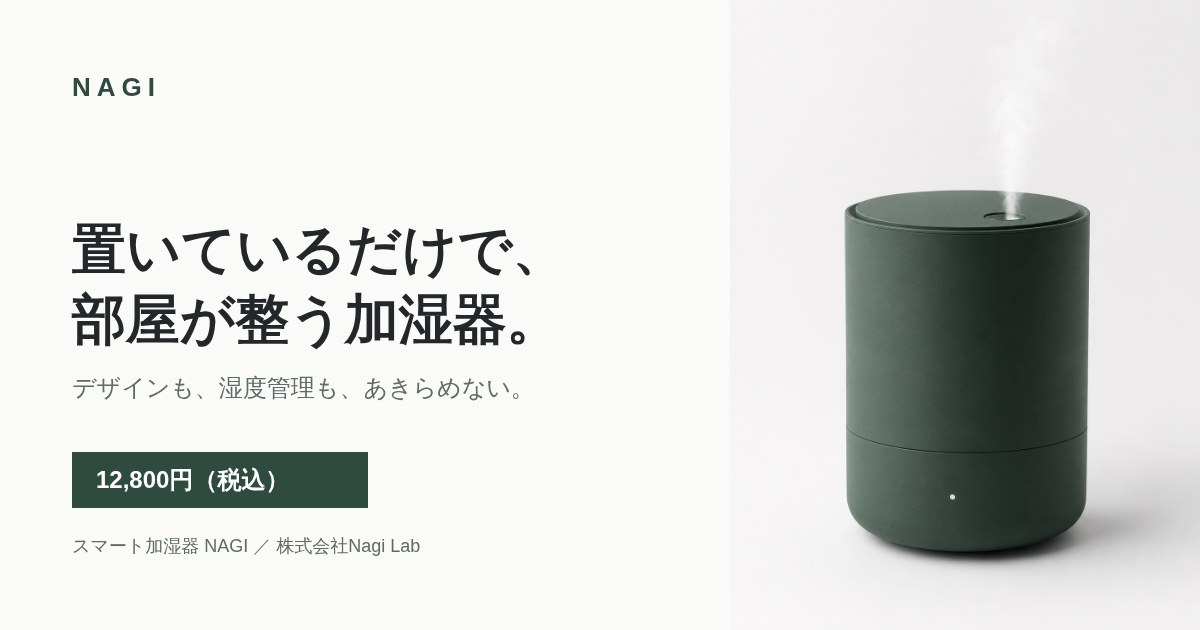
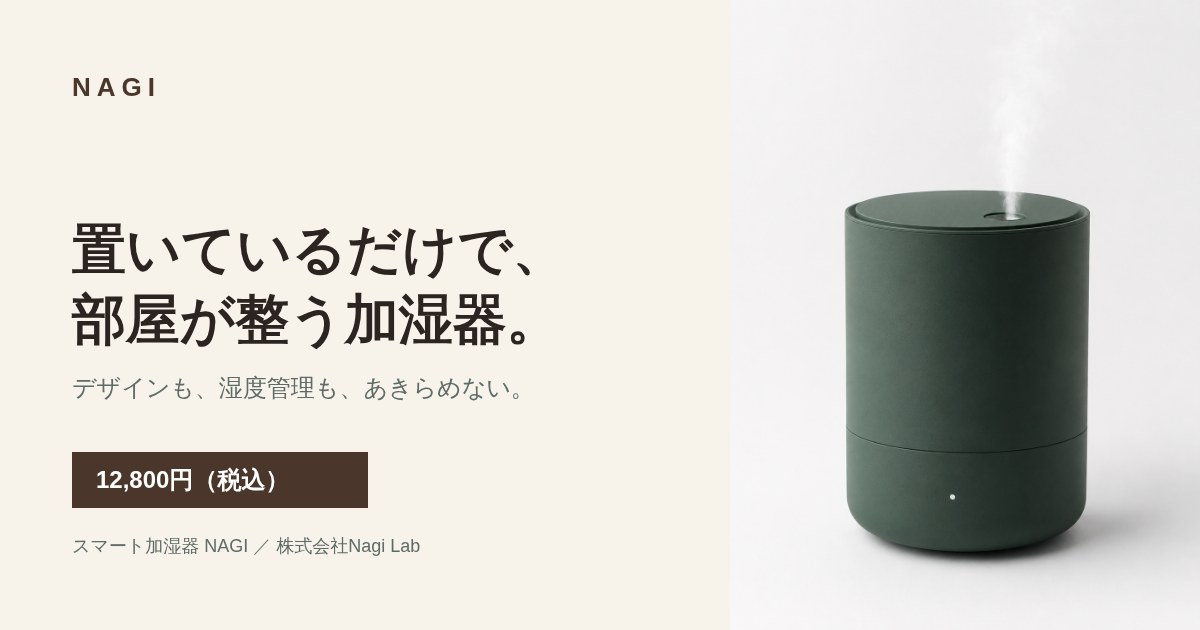
デザインシステム改訂版を反映し配色をウォールナットブラウン基調へ変更
クライアント要望（温かみ・木のイメージ）を受けた04_design-systemの
改訂版をdocsへ反映し、src/index.htmlのCSSトークンを差し替えた。
レイアウト・余白・フォントサイズは改訂版の指定どおり変更なし。

- ベース #FAFAF8 → #F7F2EA ウォームホワイト
- キー   #2F4A3E → #4A362A ウォールナットブラウン（白文字 11.34:1）
- サブ   #C9BBA0 → #B69B6E 真鍮ベージュ（罫線・装飾専用）
- 本文   #23272A → #2B2420 ウォームブラック（13.70:1）
- 派生色（ホバー・フッター地・罫線）を新キー色から再算出
- theme-color、favicon、OGP画像も新配色で再生成

真鍮ベージュは本文で2.38:1と基準未達のため、04の指定どおり
罫線・装飾に限定。悩みセクションの番号は補助グレーへ変更した。

全幅でコントラスト基準未達ゼロ、横スクロールなし、原稿61/62一致を確認。
写真素材は旧トーンのままのため、新画像の到着後に差し替えが必要。

Changed region(s): [[0.0617, 0.6937, 0.3083, 0.8143]]

diff --git a/nagi-lp/src/index.html b/nagi-lp/src/index.html
@@ -8,7 +8,7 @@
 <meta name="description" content="インテリアに馴染むミニマルなデザインと、スマホで完結する湿度管理を両立したスマート加湿器NAGI。20dB以下の静音設計。12,800円（税込）・30日間返品保証。">
 <link rel="canonical" href="https://nagilab.co.jp/pages/nagi">
 <meta name="robots" content="index,follow">
-<meta name="theme-color" content="#2F4A3E">
+<meta name="theme-color" content="#4A362A">
 
 <!-- OGP -->
 <meta property="og:type" content="product">
@@ -40,21 +40,24 @@
 *, *::before, *::after { box-sizing: border-box; margin: 0; padding: 0; }
 
 :root {
-  /* ---- カラー（04_design-system §1） ---- */
-  --c-base:    #FAFAF8;  /* オフホワイト  ベース 約60% */
-  /* ミストグレー。ベージュ地では 4.20:1 と本文基準に届かないため、
-     テキストには使わず罫線・図解などの非テキスト要素に限定する */
+  /* ---- カラー（04_design-system §1／2026年8月2日改訂）----
+     グレー×ディープグリーンから、ウォールナットブラウン×真鍮ベージュへ変更。
+     括弧内は実測コントラスト比 */
+  --c-base:    #F7F2EA;  /* ウォームホワイト ベース 約60% */
+  /* ミストグレー。テキストには使わず罫線・図解などの非テキスト要素に限定 */
   --c-main:    #6B7280;
-  --c-key:     #2F4A3E;  /* ディープグリーン キー 約10% */
-  --c-sub:     #C9BBA0;  /* サンドベージュ  サブ 約10% */
-  --c-text:    #23272A;  /* ダークグレー   本文・見出し */
-  --c-muted:   #5F6B66;  /* 補助テキスト（04改訂済み。ベージュ地 4.76:1） */
+  --c-key:     #4A362A;  /* ウォールナットブラウン キー 約12%（白文字 11.34:1） */
+  /* 真鍮ベージュ。ウォームホワイト地で 2.38:1 のため
+     04 §1 の指定どおり本文には使わず、罫線・装飾専用とする */
+  --c-sub:     #B69B6E;
+  --c-text:    #2B2420;  /* ウォームブラック 本文・見出し（13.70:1） */
+  --c-muted:   #5F6B66;  /* 補助テキスト（ベージュ地 4.76:1） */
 
   /* 派生色。新規の色相は増やさない */
-  --c-beige-bg: #F2EDE3; /* サンドベージュをベースへ寄せた地 */
-  --c-key-hi:   #3A5C4D; /* キーの明度+10%（ホバー） */
-  --c-line:     #E2E1DC; /* ベースに対するヘアライン */
-  --c-key-deep: #24382E; /* キーより暗い面。フッター用 */
+  --c-beige-bg: #F2EDE3; /* 強み地。セクション背景の切り替えのみ */
+  --c-key-hi:   #5C4A3F; /* キーの明度+10%（ホバー。白文字 8.38:1） */
+  --c-line:     #E1DAD1; /* ベースに対するヘアライン */
+  --c-key-deep: #35271E; /* キーより暗い面。フッター用（白文字 14.38:1） */
 
   /* ---- 余白スケール（04 §3。この9値以外は使わない） ---- */
   --sp-4: 4px; --sp-8: 8px; --sp-12: 12px; --sp-16: 16px;
@@ -198,7 +201,9 @@ img { max-width: 100%; height: auto; display: block; }
   display: flex; align-items: flex-start; gap: var(--sp-24);
   padding-block: var(--sp-24); border-bottom: 1px solid var(--c-line);
 }
-.pain__n { font-size: 13px; font-weight: 700; color: var(--c-sub); font-variant-numeric: tabular-nums; padding-top: var(--sp-4); }
+/* 番号は文字なので真鍮ベージュ（2.38:1）は使えない。
+   04 §1「真鍮ベージュは本文への使用不可」に従い補助グレーを使う */
+.pain__n { font-size: 13px; font-weight: 700; color: var(--c-muted); font-variant-numeric: tabular-nums; padding-top: var(--sp-4); }
 .pain__t { font-size: 20px; font-weight: 700; line-height: 1.5; }
 
 /* ---------------------------------------------------------------------------

diff --git a/nagi-lp/CLAUDE.md b/nagi-lp/CLAUDE.md
@@ -10,16 +10,31 @@
 購入促進（CTA:「NAGIを購入する」）
 
 ## 現在工程
-全体実装済み（STEP8｜全10セクション＋問い合わせフォーム）
+デザイントーン改訂の反映中（配色は新トーンへ差し替え済み。画像素材は未着）
+
+**注意：現在UIと写真のトーンが一致していない。**
+CSSの配色はウォールナットブラウン基調（04_design-system 2026年8月2日改訂）へ
+差し替え済みだが、`assets/original` の写真3枚は旧トーン（グレー×ディープグリーン、
+寒色照明）のまま。新トーンの画像が届き次第、差し替えが必要。
 
 ## 公開前に必ず対応すること
 
-- **クラウドファンディングのキャプチャ画像を差し替える**
-  `src/index.html` セクション7の `.ph`（グレーの破線枠）はプレースホルダ。
+- **クラウドファンディングのキャプチャ画像を、実物に差し替える**
+
   支援者512名・支援総額8,942,000円という実績数値の**出典を示す証拠画像**であり、
-  他の画像で代用してはならない。掲載許可の確認後、実物のキャプチャに必ず差し替えること。
-  差し替えるまで、この実績は根拠を示せていない状態になる。
-  （`docs/02_strategy.md §5`、`docs/06_copy.md` 確認事項No.1）
+  他の画像で代用してはならない。掲載許可の確認後、実物のクラウドファンディング
+  ページのキャプチャに必ず差し替えること。差し替えるまで、この実績は根拠を
+  示せていない状態になる。（`docs/02_strategy.md §5`、`docs/06_copy.md` 確認事項No.1）
+
+  **`assets/original/nagi_cf_summary_mock.png`（および `.svg`）について**：
+  これは**架空データによる仮素材**であり、サンプル制作用に用意したモックアップ。
+  画像内に「本画像はサンプル制作用の架空データによるイメージです。特定の支援
+  プラットフォームの画面を再現したものではありません」という注記が入っている。
+  **この注記は一切加工・トリミングしてはならない。**
+
+  この仮素材は実績の**出典としては機能しない**。`docs/02_strategy.md §5` の
+  「CF公式ページのキャプチャを出典として明記して使用可」という位置づけは変更されず、
+  **公開前には実物のキャプチャへの差し替えが必須**である。
 - 問い合わせフォームのバックエンド接続（`action` と `name` をShopifyのものへ）
 - PSEマークの認証番号、個人情報保護方針の本文（8/20納品予定）
 
